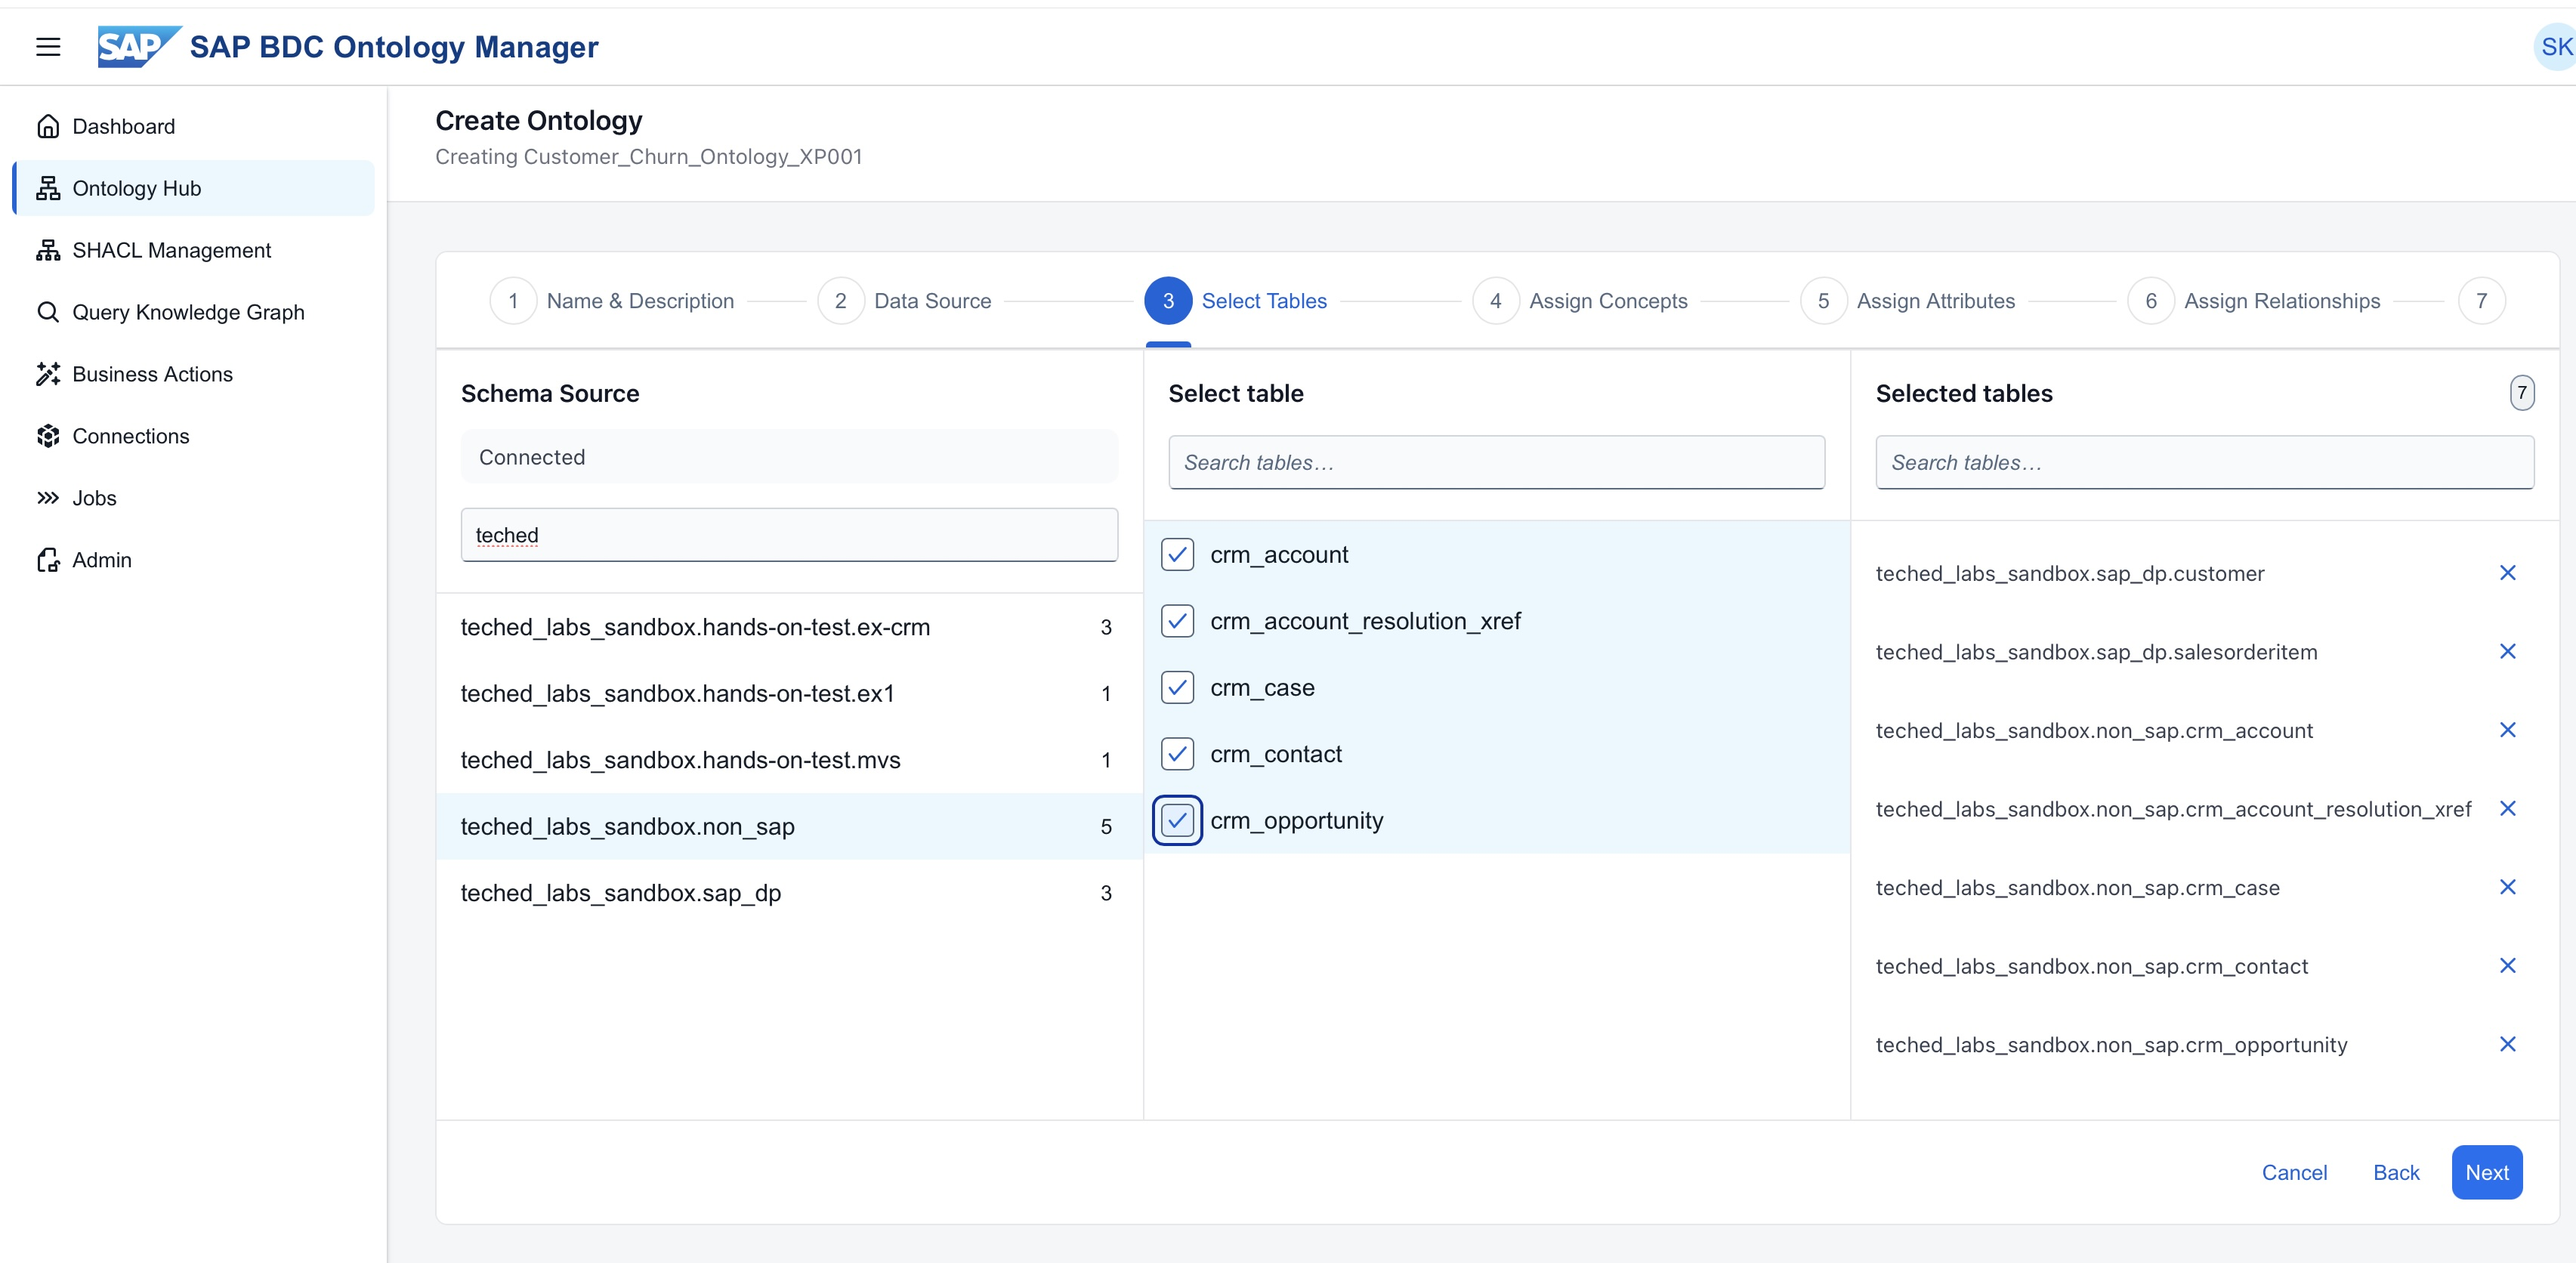
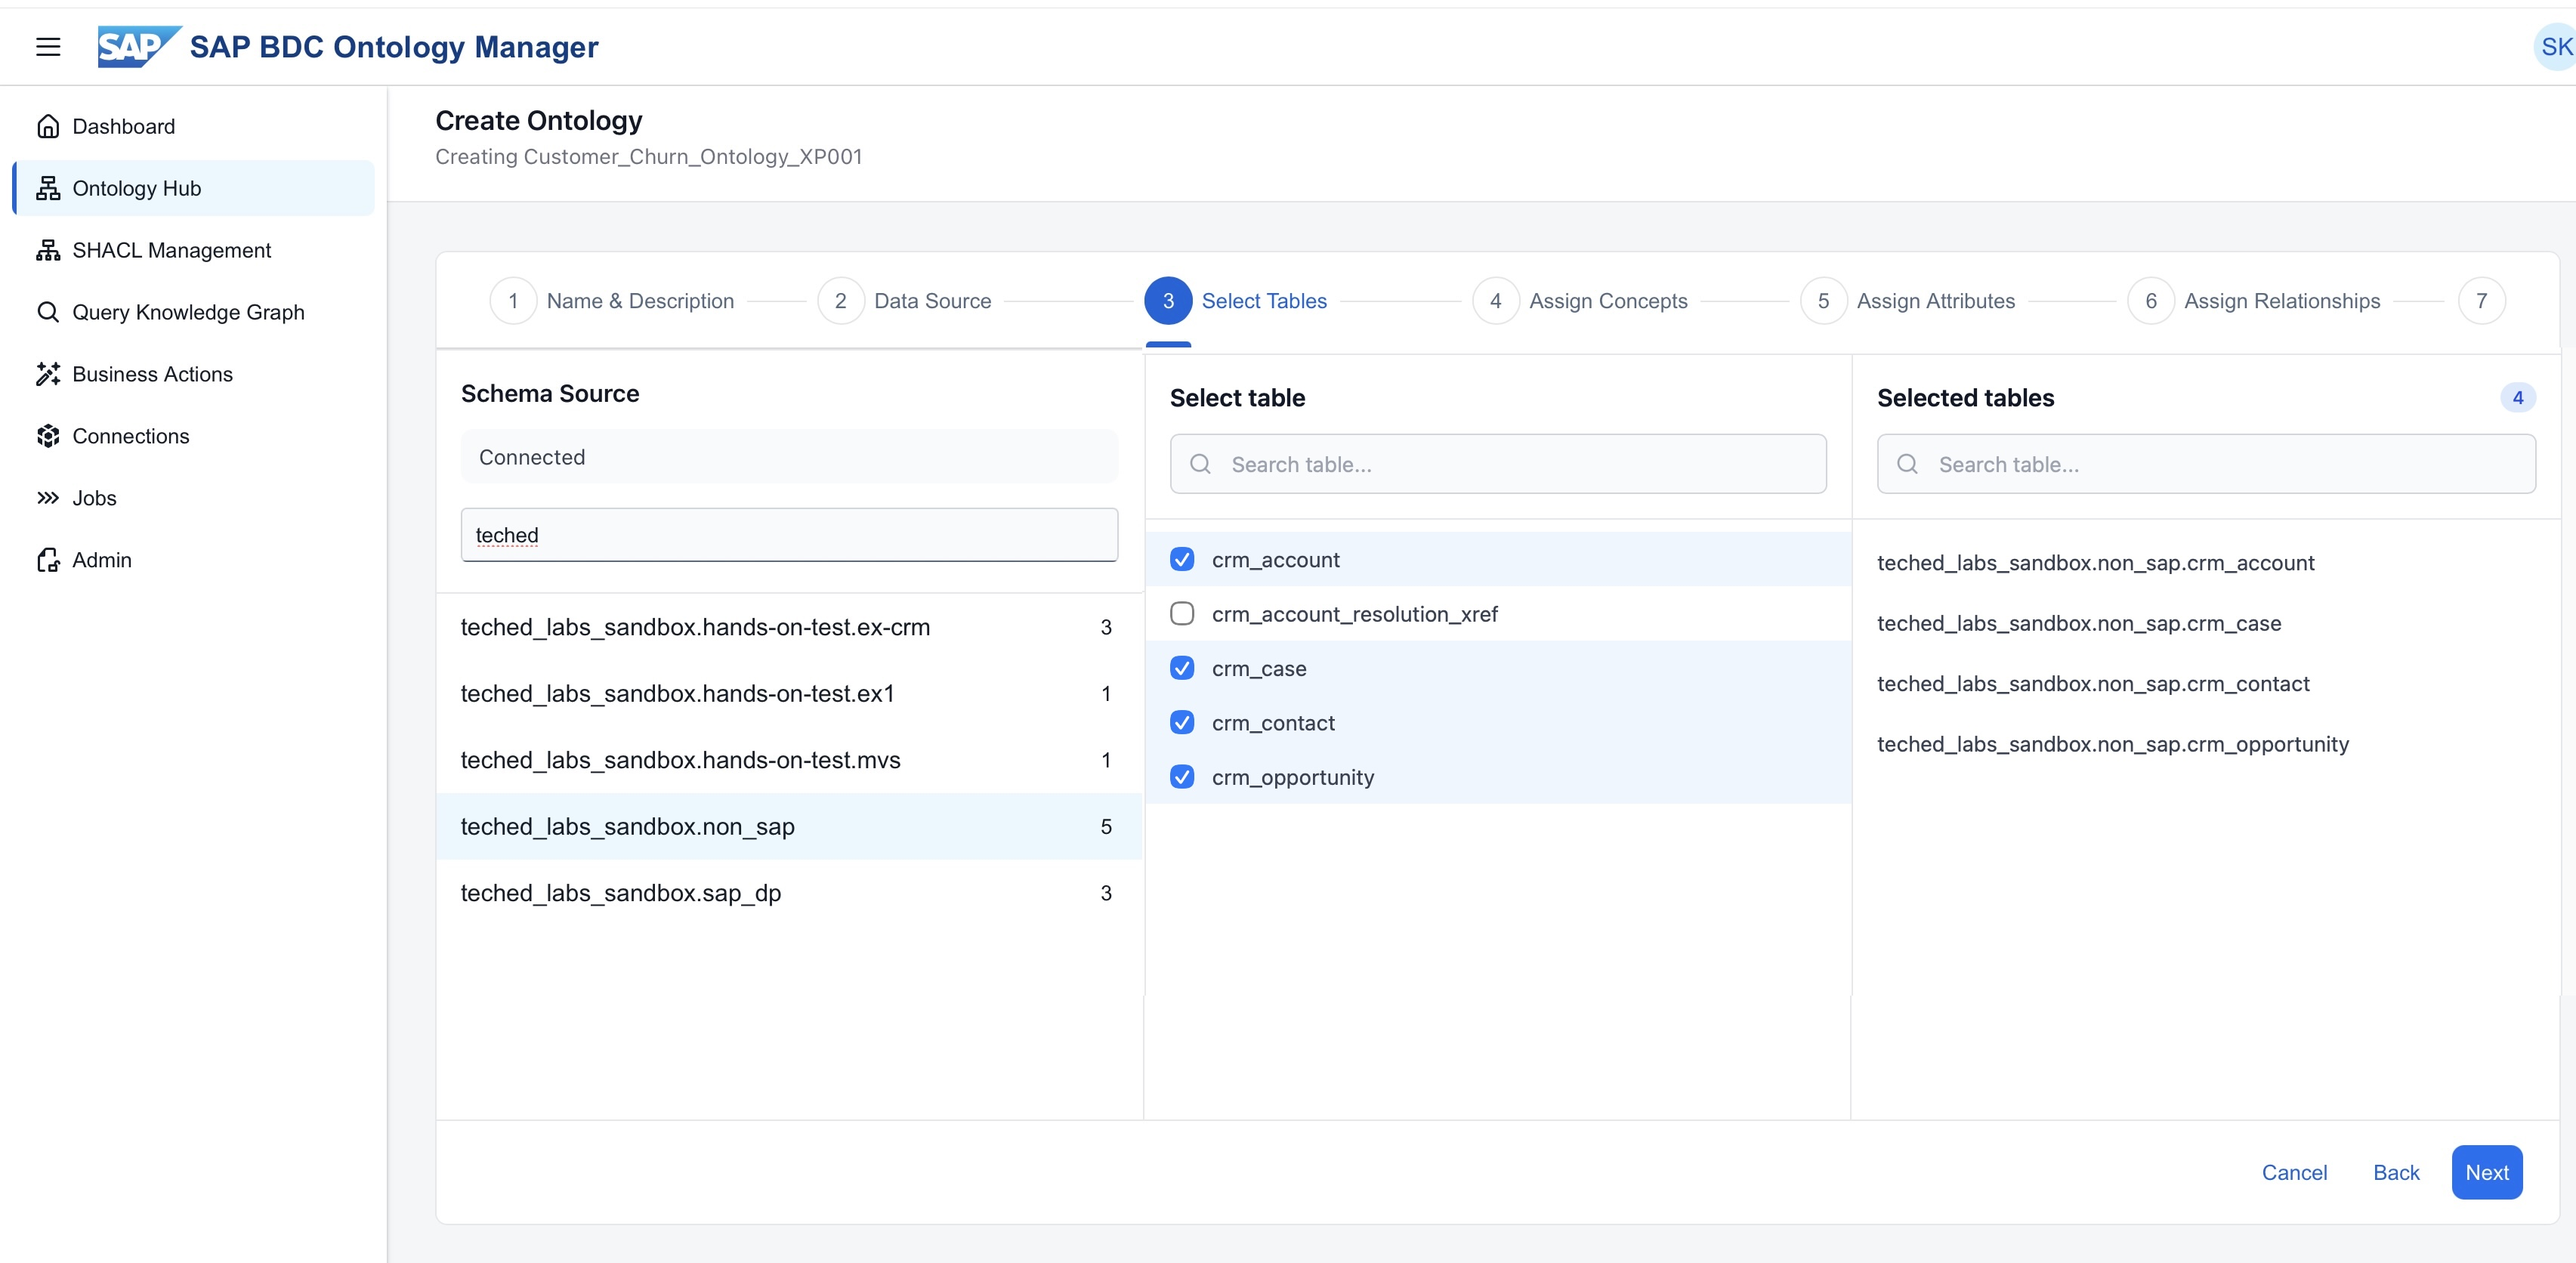
fixed _0050 screen to not inlcude xref

diff --git a/exercises/ex2/README.md b/exercises/ex2/README.md
@@ -168,14 +168,13 @@ Both appear in the **Selected tables** panel on the right (count shows 2).
 
 Now select **`teched_labs_sandbox.non_sap`** in the Schema Source panel.
 
-Check all five CRM tables:
+Check the four CRM tables:
 - `crm_account`
-- `crm_account_resolution_xref`
 - `crm_case`
 - `crm_contact`
 - `crm_opportunity`
 
-The Selected tables count rises to 7.
+The Selected tables count rises to 6.
 
 ![Select Tables step — non_sap schema selected with all five CRM tables checked, 7 total selected](images/02_02_0050.jpg)
 
@@ -187,7 +186,7 @@ Select **`<your space>`** (eg `xp267-001` depending on your setup) in the Schema
 - `v_crm_account_resolved`
 - `v_customer_otif`
 
-The Selected tables count rises to 9.
+The Selected tables count rises to 8.
 
 > `v_customer_otif` is the materialized golden record from Exercise 1 — this is the key hand-off between exercises.
 
@@ -212,7 +211,6 @@ Review the generated names. The mapping should look like this:
 | `teched_labs_sandbox.sap_dp.customer` | `Customers` |
 | `teched_labs_sandbox.sap_dp.salesorderitem` | `Salesorderitems` |
 | `teched_labs_sandbox.non_sap.crm_account` | `CrmAccount` |
-| `teched_labs_sandbox.non_sap.crm_account_resolution_xref` | `CrmAccountResolutionXref` |
 | `teched_labs_sandbox.non_sap.crm_case` | `CrmCase` |
 | `teched_labs_sandbox.non_sap.crm_contact` | `CrmContact` |
 | `teched_labs_sandbox.non_sap.crm_opportunity` | `CrmOpportunity` |
@@ -240,6 +238,19 @@ The attributes panel shows the column name on the left and the semantic property
 
 ![Assign Attributes step — Customers concept selected, Customer set as primary attribute, attributes listed](images/02_02_0080.jpg)
 
+Use the table below as a reference when setting each concept's Primary Attribute:
+
+| Concept | Source table | Primary Attribute (IRI key) |
+|---|---|---|
+| `Customers` | `sap_dp.customer` | `Customer` |
+| `Salesorderitems` | `sap_dp.salesorderitem` | `SalesOrder` + `SalesOrderItem` (composite) |
+| `CrmAccount` | `non_sap.crm_account` | `CRMAccountID` |
+| `CrmCase` | `non_sap.crm_case` | `case_id` |
+| `CrmContact` | `non_sap.crm_contact` | `contact_id` |
+| `CrmOpportunity` | `non_sap.crm_opportunity` | `opportunity_id` |
+| `VCrmAccountResolved` | `v_crm_account_resolved` | `CRMAccountID` |
+| `VCustomerOrderFulfillment` | `v_customer_otif` | `Customer` |
+
 Click **Next** once all concepts have a Primary Attribute set.
 
 ---
@@ -250,16 +261,16 @@ Define the named relationships that link concepts across the two data domains. C
 
 Add the following relationships (visible in the summary screenshot):
 
-| Source Concept | Relationship Name | Target Concept | Join attributes |
-|---|---|---|---|
-| `Customers` | `hasOTIF` | `VCustomerOtif` | `Customer` → `Customer` |
-| `Customers` | `placesOrder` | `Salesorderitems` | `Customer` → `Customer` |
-| `CrmAccount` | `hasCase` | `CrmCase` | *(account key)* |
-| `CrmAccount` | `hasContact` | `CrmContact` | *(account key)* |
-| `CrmAccount` | `hasOpportunity` | `CrmOpportunity` | *(account key)* |
-| `CrmCase` | `referencesOrder` | `Salesorderitems` | *(order key)* |
-| `VCrmAccountResolved` | `resolvesTo` | `Customers` | *(customer key)* |
-| `CrmAccount` | `resolvedBy` | `VCrmAccountResolved` | *(account key)* |
+| Source Concept | Relationship Name | Target Concept | Source Attribute | Target Attribute |
+|---|---|---|---|---|
+| `CrmAccount` | `hasCase` | `CrmCase` | `CRMAccountID` | `CRMAccountID` |
+| `CrmAccount` | `hasContact` | `CrmContact` | `CRMAccountID` | `CRMAccountID` |
+| `CrmAccount` | `hasOpportunity` | `CrmOpportunity` | `CRMAccountID` | `CRMAccountID` |
+| `CrmAccount` | `resolvedBy` | `VCrmAccountResolved` | `CRMAccountID` | `CRMAccountID` |
+| `VCrmAccountResolved` | `resolvesTo` | `Customers` | `SAPCustomerID` | `Customer` |
+| `Customers` | `hasOTIF` | `VCustomerOrderFulfillment` | `Customer` | `Customer` |
+| `Customers` | `placesOrder` | `Salesorderitems` | `Customer` | `SoldToParty` |
+| `CrmCase` | `referencesOrder` | `Salesorderitems` | `related_sales_order` | `SalesOrder` |
 
 For each relationship, set the **Source Concept**, type the **Relationship Name**, pick the **Target Concept**, then map the **Source Attribute** and **Target Attribute** join columns.
 
@@ -320,7 +331,7 @@ This ontology is now ready for Exercise 3 — the Joule agent will ground on it 
 
 ## Summary
 
-You connected SAP BDC Ontology Manager to Dremio, then built a 9-table, 8-concept, 8-relationship ontology that bridges SAP customer/order data with non-SAP CRM data via the `v_customer_otif` golden record from Exercise 1. The knowledge graph is now active and queryable — the semantic foundation Exercise 3's Joule agent will reason over.
+You connected SAP BDC Ontology Manager to Dremio, then built an 8-table, 8-concept, 8-relationship ontology that bridges SAP customer/order data with non-SAP CRM data via the `v_customer_otif` golden record from Exercise 1. The knowledge graph is now active and queryable — the semantic foundation Exercise 3's Joule agent will reason over.
 
 
 Continue to - [Exercise 3 - Build a Joule Agent on the Golden Record](../ex3/)
